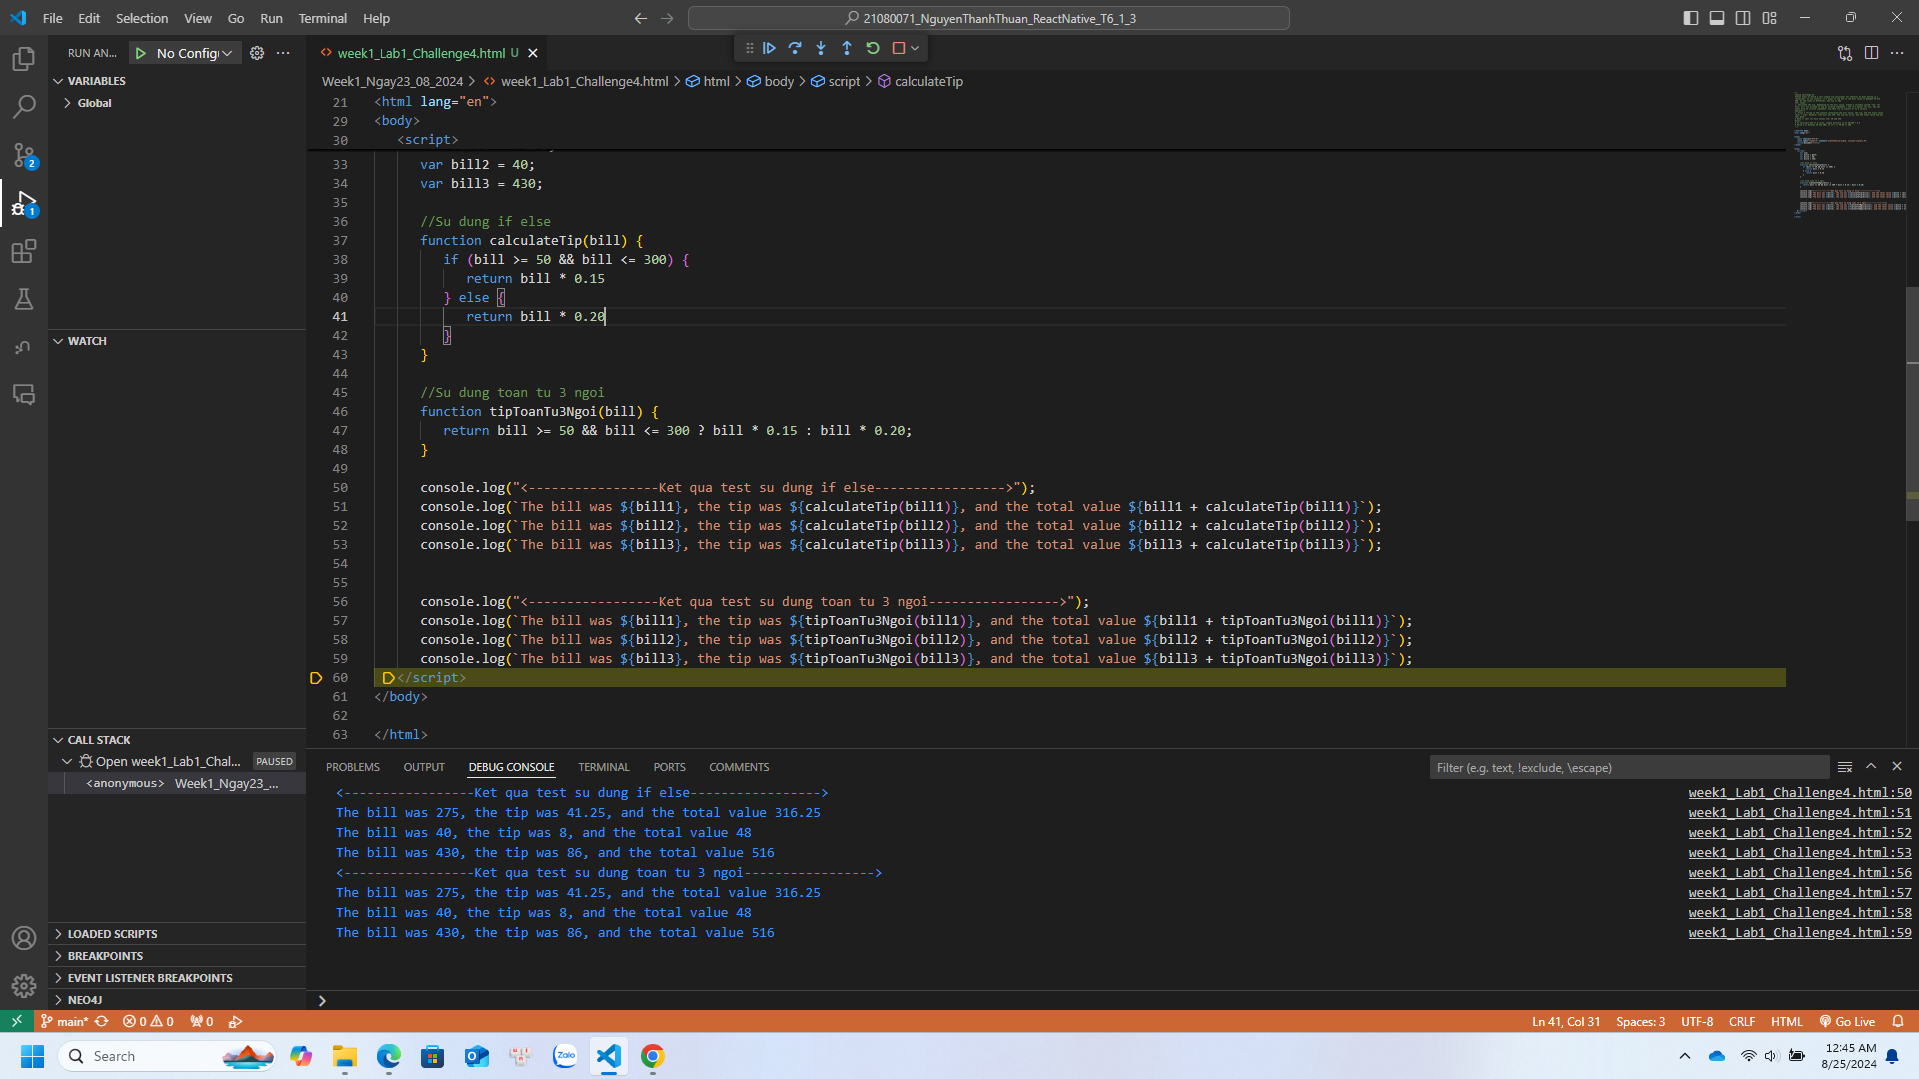
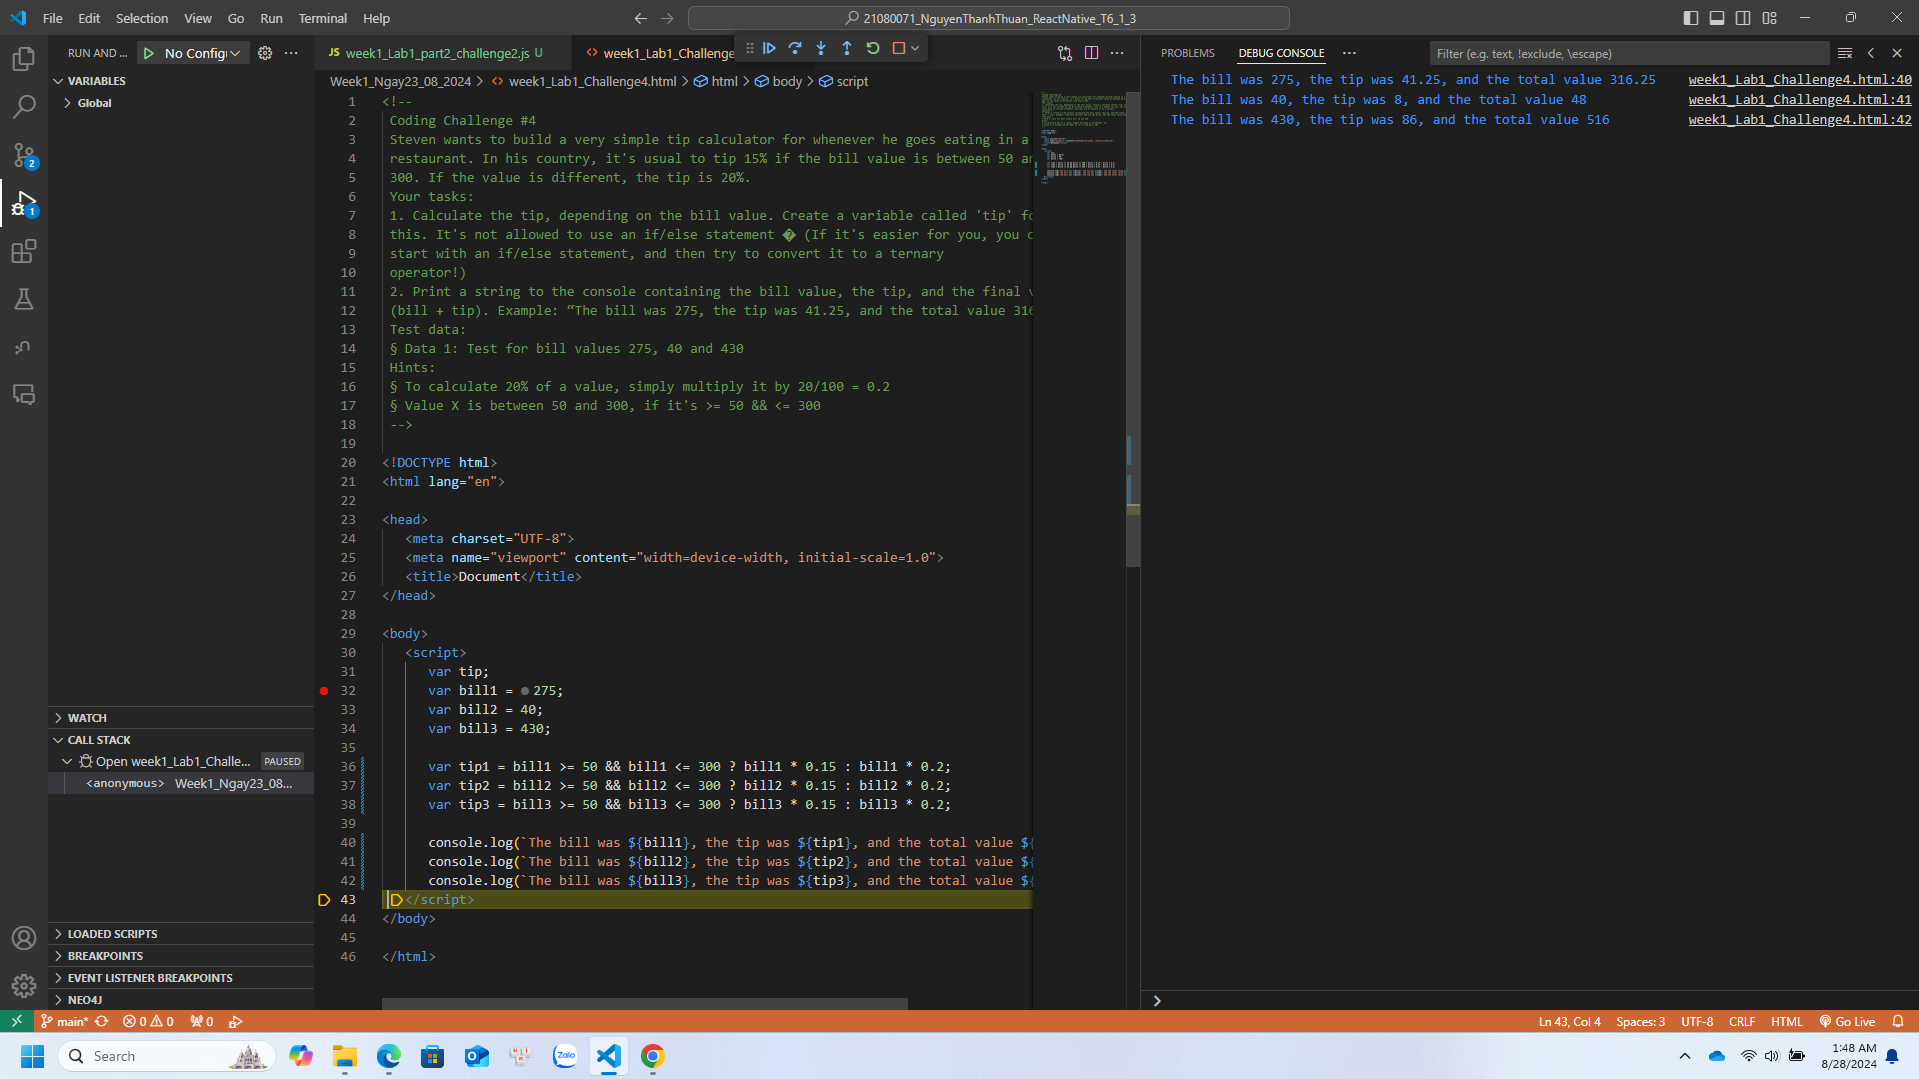
update week1 lab1 part1 challenge4 + replace minh chung

diff --git a/Week1_Ngay23_08_2024/week1_Lab1_part2_challenge2.js b/Week1_Ngay23_08_2024/week1_Lab1_part2_challenge2.js
@@ -1,0 +1,53 @@
+// Steven is still building his tip calculator, using the same rules as before: Tip 15% of 
+// the bill if the bill value is between 50 and 300, and if the value is different, the tip is 
+// 20%.
+// Your tasks:
+// 1. Write a function 'calcTip' that takes any bill value as an input and returns 
+// the corresponding tip, calculated based on the rules above (you can check out 
+// the code from first tip calculator challenge if you need to). Use the function 
+// type you like the most. Test the function using a bill value of 100
+// 2. And now let's use arrays! So create an array 'bills' containing the test data 
+// below
+// 3. Create an array 'tips' containing the tip value for each bill, calculated from 
+// the function you created before
+// 4. Bonus: Create an array 'total' containing the total values, so the bill + tip
+// Test data: 125, 555 and 44
+// Hint: Remember that an array needs a value in each position, and that value can 
+// actually be the returned value of a function! So you can just call a function as array 
+// values (so don't store the tip values in separate variables first, but right in the new 
+// array)
+
+var tip;
+var bill1 = 275;
+var bill2 = 40;
+var bill3 = 430;
+
+//Su dung if else
+function calculateTip(bill) {
+    if (bill >= 50 && bill <= 300) {
+        return bill * 0.15
+    } else {
+        return bill * 0.20
+    }
+}
+
+//Su dung toan tu 3 ngoi
+function tipToanTu3Ngoi(bill) {
+    return bill >= 50 && bill <= 300 ? bill * 0.15 : bill * 0.20;
+}
+
+console.log("<-----------------Ket qua test su dung if else----------------->");
+console.log(`The bill was ${bill1}, the tip was ${calculateTip(bill1)}, and the total value ${bill1 + calculateTip(bill1)}`);
+console.log(`The bill was ${bill2}, the tip was ${calculateTip(bill2)}, and the total value ${bill2 + calculateTip(bill2)}`);
+console.log(`The bill was ${bill3}, the tip was ${calculateTip(bill3)}, and the total value ${bill3 + calculateTip(bill3)}`);
+
+
+console.log("<-----------------Ket qua test su dung toan tu 3 ngoi----------------->");
+console.log(`The bill was ${bill1}, the tip was ${tipToanTu3Ngoi(bill1)}, and the total value ${bill1 + tipToanTu3Ngoi(bill1)}`);
+console.log(`The bill was ${bill2}, the tip was ${tipToanTu3Ngoi(bill2)}, and the total value ${bill2 + tipToanTu3Ngoi(bill2)}`);
+console.log(`The bill was ${bill3}, the tip was ${tipToanTu3Ngoi(bill3)}, and the total value ${bill3 + tipToanTu3Ngoi(bill3)}`);
+
+//Ham calcTip
+function calcTip(bill) {
+    return bill >= 50 && bill <= 300 ? bill * 0.15 : bill * 0.20;
+}

diff --git a/Week1_Ngay23_08_2024/week1_Lab1_Challenge4.html b/Week1_Ngay23_08_2024/week1_Lab1_Challenge4.html
@@ -33,30 +33,13 @@
       var bill2 = 40;
       var bill3 = 430;
 
-      //Su dung if else
-      function calculateTip(bill) {
-         if (bill >= 50 && bill <= 300) {
-            return bill * 0.15
-         } else {
-            return bill * 0.20
-         }
-      }
+      var tip1 = bill1 >= 50 && bill1 <= 300 ? bill1 * 0.15 : bill1 * 0.2;
+      var tip2 = bill2 >= 50 && bill2 <= 300 ? bill2 * 0.15 : bill2 * 0.2;
+      var tip3 = bill3 >= 50 && bill3 <= 300 ? bill3 * 0.15 : bill3 * 0.2;
 
-      //Su dung toan tu 3 ngoi
-      function tipToanTu3Ngoi(bill) {
-         return bill >= 50 && bill <= 300 ? bill * 0.15 : bill * 0.20;
-      }
-
-      console.log("<-----------------Ket qua test su dung if else----------------->");
-      console.log(`The bill was ${bill1}, the tip was ${calculateTip(bill1)}, and the total value ${bill1 + calculateTip(bill1)}`);
-      console.log(`The bill was ${bill2}, the tip was ${calculateTip(bill2)}, and the total value ${bill2 + calculateTip(bill2)}`);
-      console.log(`The bill was ${bill3}, the tip was ${calculateTip(bill3)}, and the total value ${bill3 + calculateTip(bill3)}`);
-   
-
-      console.log("<-----------------Ket qua test su dung toan tu 3 ngoi----------------->");
-      console.log(`The bill was ${bill1}, the tip was ${tipToanTu3Ngoi(bill1)}, and the total value ${bill1 + tipToanTu3Ngoi(bill1)}`);
-      console.log(`The bill was ${bill2}, the tip was ${tipToanTu3Ngoi(bill2)}, and the total value ${bill2 + tipToanTu3Ngoi(bill2)}`);
-      console.log(`The bill was ${bill3}, the tip was ${tipToanTu3Ngoi(bill3)}, and the total value ${bill3 + tipToanTu3Ngoi(bill3)}`);
+      console.log(`The bill was ${bill1}, the tip was ${tip1}, and the total value ${bill1 + tip1}`);
+      console.log(`The bill was ${bill2}, the tip was ${tip2}, and the total value ${bill2 + tip2}`);
+      console.log(`The bill was ${bill3}, the tip was ${tip3}, and the total value ${bill3 + tip3}`);
    </script>
 </body>
 
